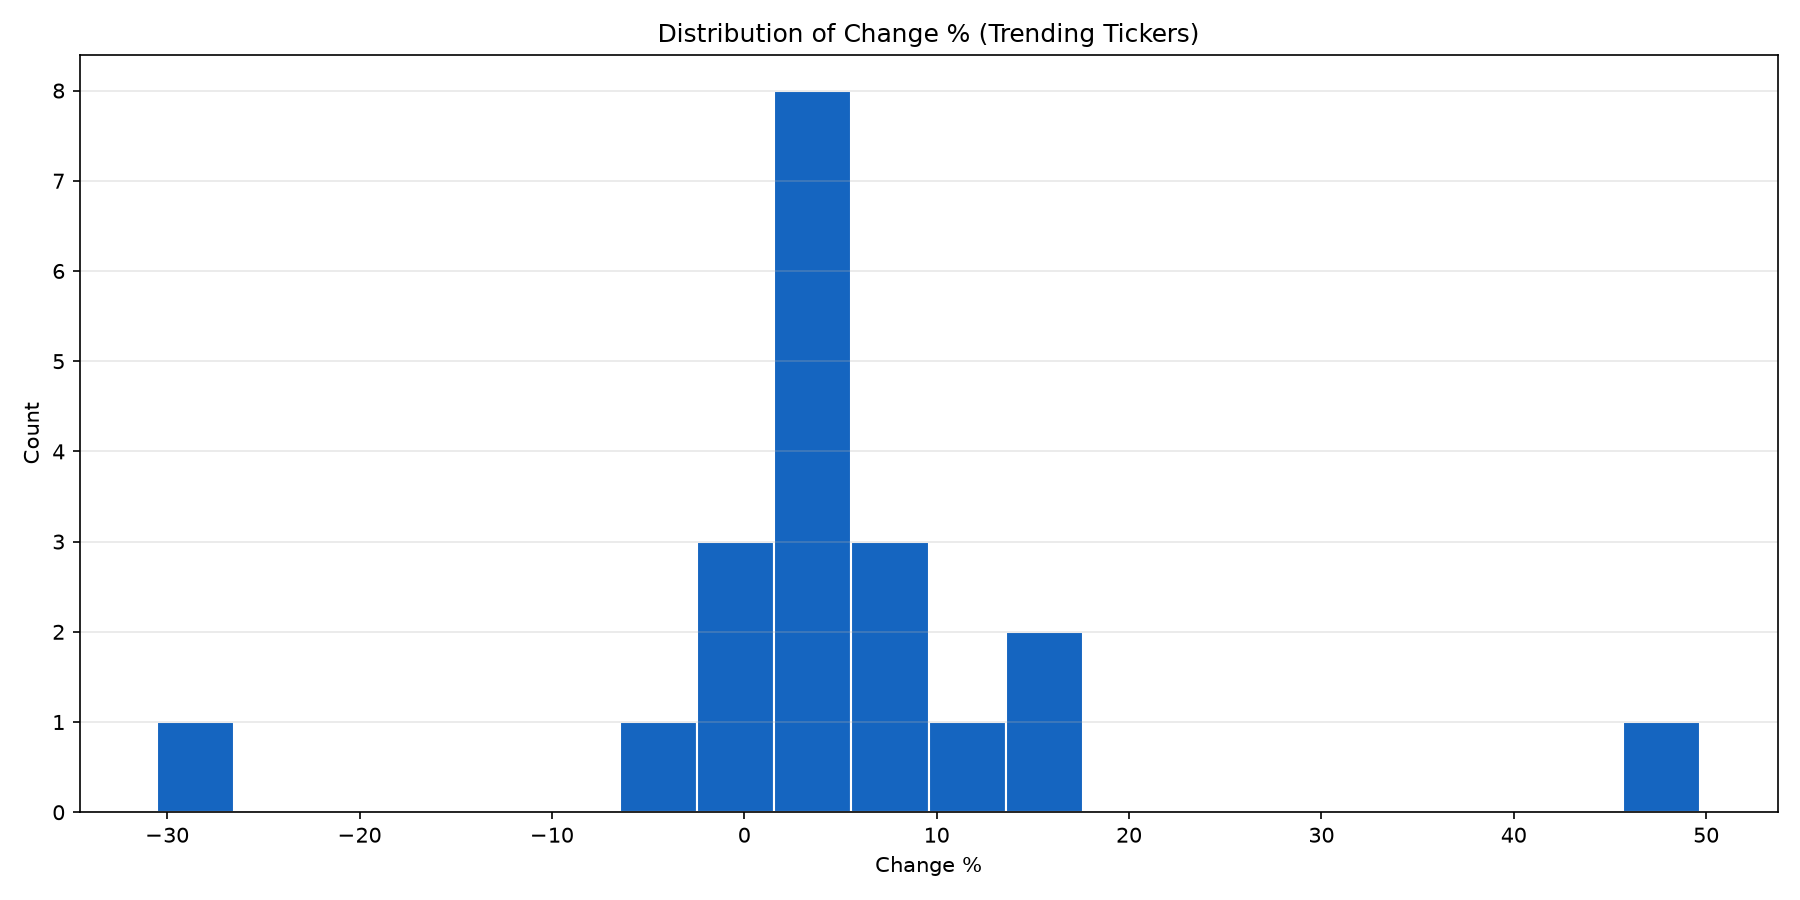
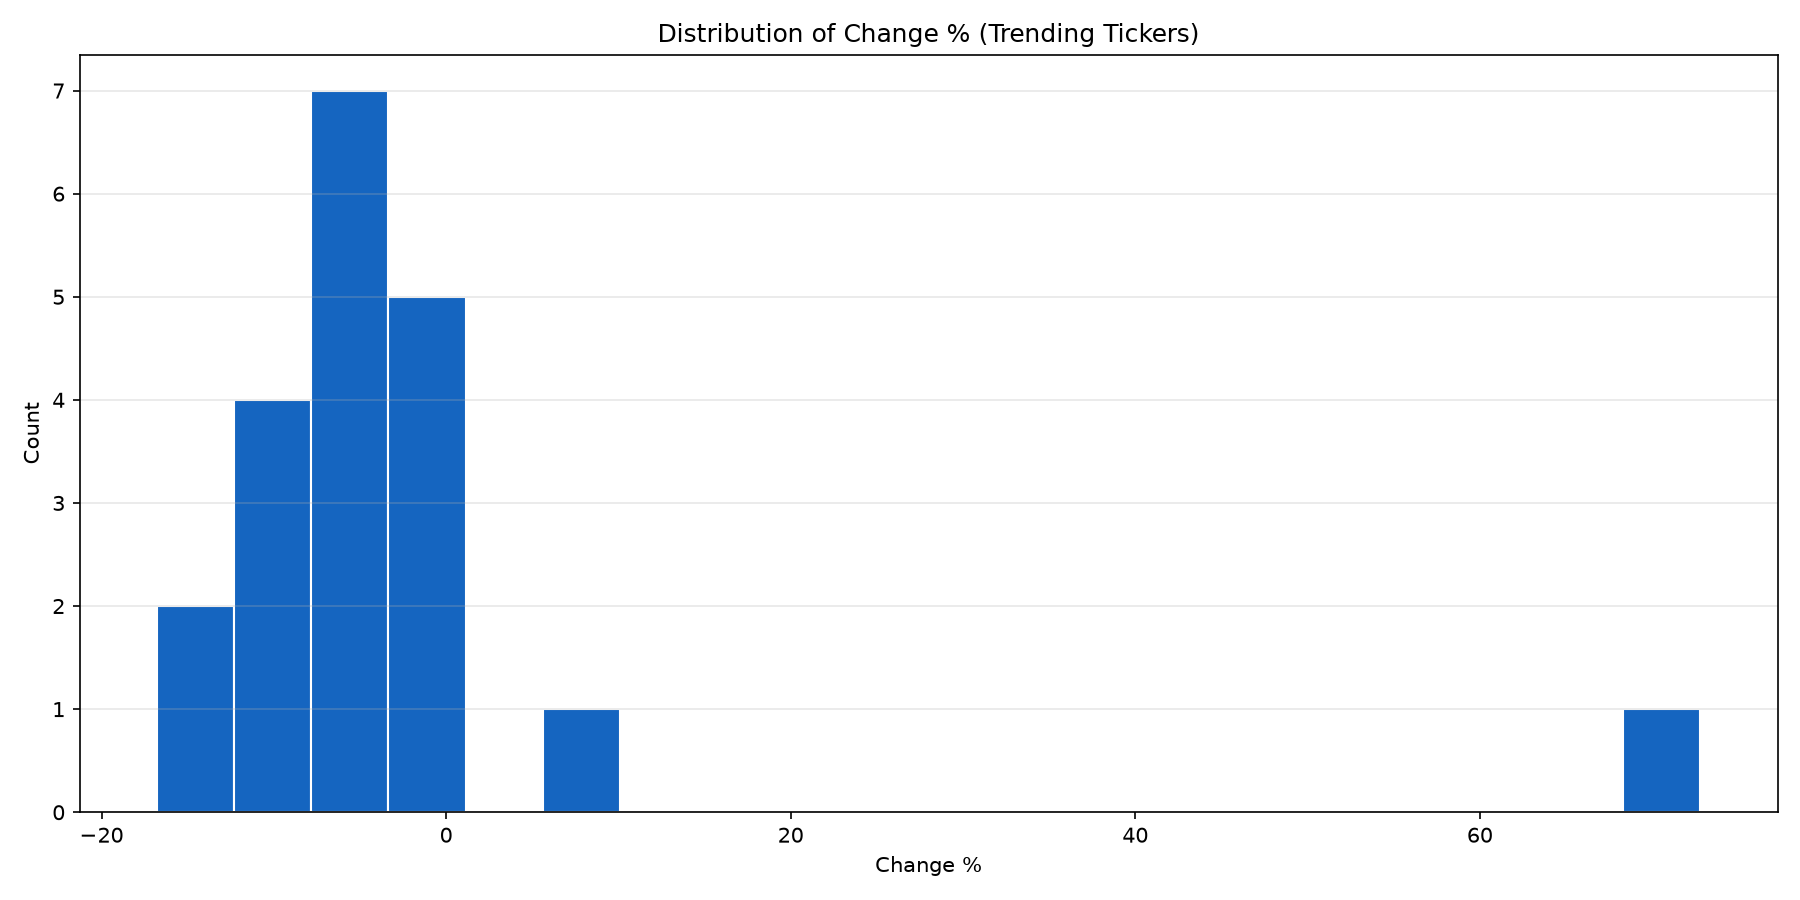
chore: daily metrics report update

diff --git a/README.md b/README.md
@@ -1,7 +1,7 @@
 # AI-Powered Real-Time Business Metrics Aggregator
 
 <!-- LAST_UPDATED_BADGE_START -->
-![Last Updated](https://img.shields.io/badge/Last%20Updated-2026--10--16%2013%3A12%20UTC-blue)
+![Last Updated](https://img.shields.io/badge/Last%20Updated-2026--10--19%2013%3A15%20UTC-blue)
 <!-- LAST_UPDATED_BADGE_END -->
 
 
@@ -146,27 +146,27 @@ This project demonstrates a full pipeline for ingesting, transforming, and analy
 <!-- DAILY_REPORT_START -->
 ## Daily Automated Market Summary
 
-- Last refresh (UTC): **2026-10-16 13:12:54**
+- Last refresh (UTC): **2026-10-19 13:15:51**
 - Tickers tracked: **20**
-- Average change: **+5.25%**
-- Median change: **+3.43%**
-- Top gainer: **XLAB (+49.70%)**
-- Top loser: **FMC (-30.53%)**
+- Average change: **-1.56%**
+- Median change: **-4.69%**
+- Top gainer: **XLAB (+72.79%)**
+- Top loser: **SAFX (-16.79%)**
 
 ### Top Movers
 
 | Symbol | Name | Price | Change % |
 |---|---|---:|---:|
-| XLAB | Exascale Labs Holdings Inc. | 1.36 | +49.70% |
-| RGC | Regencell Bioscience Holdings L | 9.52 | +17.39% |
-| OPEN | Opendoor Technologies Inc | 2.32 | +16.58% |
-| DVLT | Datavault AI Inc. | 0.14 | +12.27% |
-| QS | QuantumScape Corporation | 4.23 | +7.63% |
-| NOW | ServiceNow, Inc. | 148.57 | +6.14% |
-| MSTR | Strategy Inc | 151.29 | +5.62% |
-| NKE | Nike, Inc. | 37.14 | +5.21% |
-| CRM | Salesforce, Inc. | 246.74 | +4.57% |
-| ZETA | Zeta Global Holdings Corp. | 33.55 | +3.97% |
+| XLAB | Exascale Labs Holdings Inc. | 2.35 | +72.79% |
+| CRGY | Crescent Energy Company | 13.77 | +10.07% |
+| IRON | Disc Medicine, Inc. | 56.84 | +0.34% |
+| FITB | Fifth Third Bancorp | 50.37 | +0.04% |
+| CLF | Cleveland-Cliffs Inc. | 12.12 | -0.25% |
+| DX | Dynex Capital, Inc. | 10.93 | -1.71% |
+| AMZN | Amazon.com, Inc. | 250.00 | -1.87% |
+| RCAT | Red Cat Holdings, Inc. | 4.72 | -3.67% |
+| AVGO | Broadcom Inc. | 328.75 | -4.52% |
+| ABVX | Abivax SA | 88.13 | -4.60% |
 
 ### Daily Visuals
 
